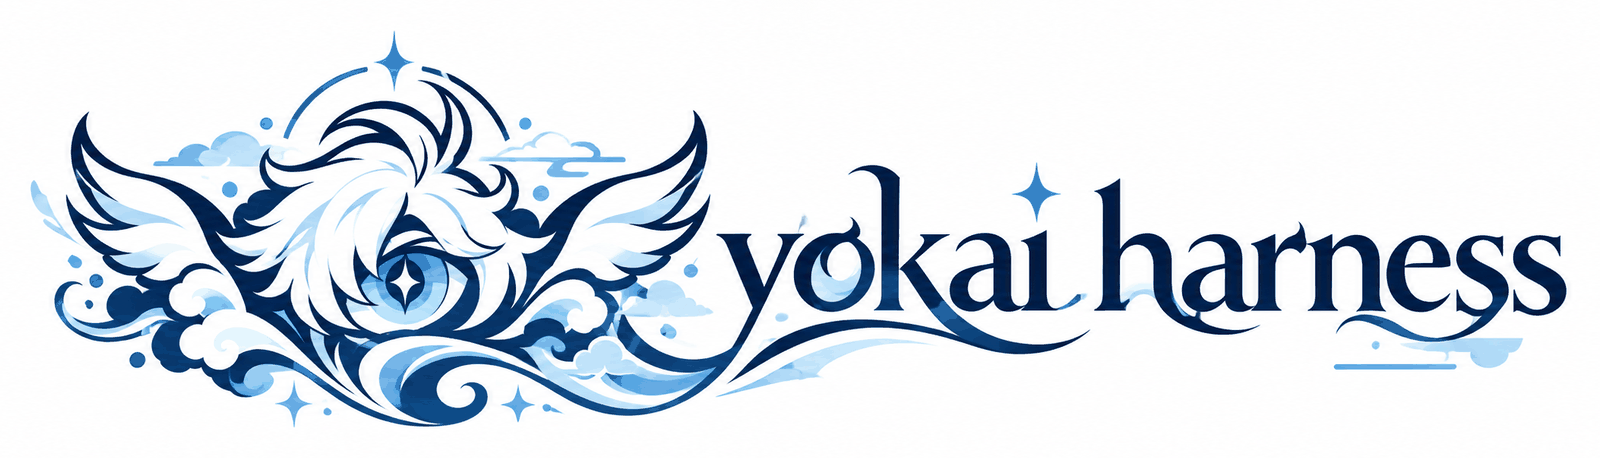
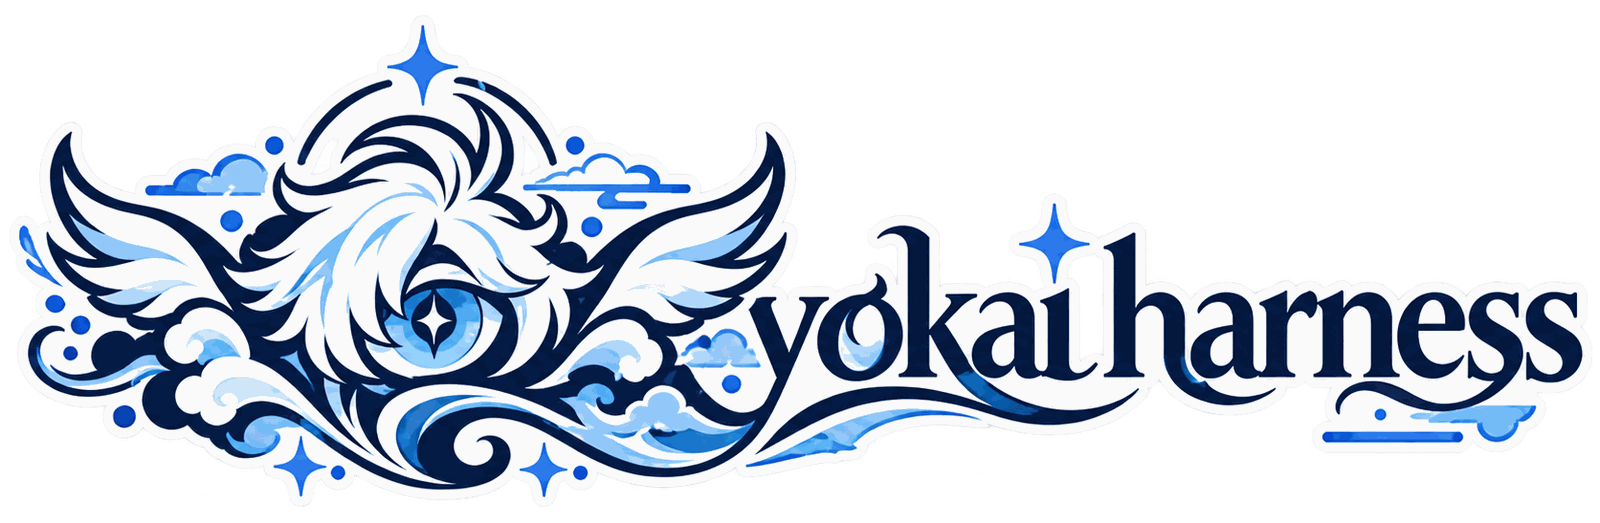
docs: README のバナーを透過のロゴに差し替える
ダークモードでも白い長方形にならないよう、透過の原画を assets/src/wordmark.png に置き、余白を詰めた assets/wordmark.png を README で表示する

Changed region(s): [[0.0, 0.0611, 1.0, 0.9476]]

diff --git a/docs/development.md b/docs/development.md
@@ -61,6 +61,6 @@ python3 assets/build.py NotoSansJP.ttf
 | ファイル | 役割 |
 |---|---|
 | `assets/src/wordmark.png` / `assets/src/emblem.png` | ロゴとエンブレムの原画 |
-| `assets/wordmark.png` | README の見出しのロゴ (原画を余白を詰めて 1600px に縮小) |
+| `assets/wordmark.png` | README のバナー (透過。原画の余白を詰めて 1600px に縮小) |
 | `assets/emblem.png` | 図に埋め込むエンブレム (400px) |
 | `.claude-plugin/icon.png` | plugin の一覧に出るアイコン (紺地にエンブレム、1024px) |

diff --git a/README.md b/README.md
@@ -1,7 +1,7 @@
 # yokai-harness
 
 <p align="center">
-  <img src="assets/wordmark.png" alt="yokai harness のロゴ。翼を広げた青い一つ目の妖怪の紋章と yokai harness の文字" width="560">
+  <img src="assets/wordmark.png" alt="yokai harness のロゴ。翼を広げた青白い一つ目の妖怪の紋章と yokai harness の文字" width="560">
 </p>
 
 コーディングエージェントに持たせる、参照資料とレビュー手順のスキル集。Claude Code・Codex・Gemini CLI で同じスキルを使える。
